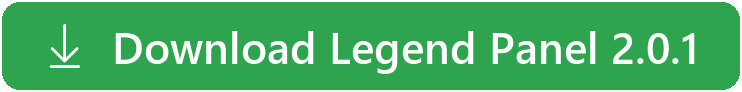
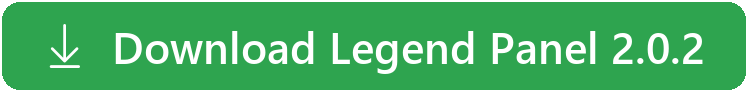
README: What's new in 2.0.2 (edit keys), Download Legend Panel 2.0.2, VirusTotal result

Changed region(s): [[0.155, 0.3261, 0.9609, 0.8043], [0.062, 0.2609, 0.124, 0.6739]]

diff --git a/README.md b/README.md
@@ -7,18 +7,27 @@ LegendPanel is a SteamVR panel that sits on your wrist or in the room. It shows 
 
 ## ⬇ Download
 
-<a href="https://github.com/Encapsulation/LegendPanel/releases/latest/download/LegendPanel.exe"><img src="docs/download-button.png" alt="Download Legend Panel 2.0.1" width="371"></a>
+<a href="https://github.com/Encapsulation/LegendPanel/releases/latest/download/LegendPanel.exe"><img src="docs/download-button.png" alt="Download Legend Panel 2.0.2" width="374"></a>
 
 One file: no installer, nothing to unpack. To update, replace the exe; your settings are kept. [All releases](https://github.com/Encapsulation/LegendPanel/releases)
 
-**VirusTotal (2.0.1):** [0 of 71 security vendors flagged it](https://www.virustotal.com/gui/file/dd71d622ff0cb8060fe69d9f820d7cb44113102748aa57d165ae441687c5f719)  
[1 lines of base64/hex data omitted]
+**VirusTotal (2.0.2):** [0 of 71 security vendors flagged it](https://www.virustotal.com/gui/file/60555c1aa0bd95351f07f62eff443ee7ea7114e480e84dd8d33fce2de2471768)  
[1 lines of base64/hex data omitted]
 
 Windows may show "Windows protected your PC" the first time, because the app isn't code-signed yet. Click **More info**, then **Run anyway**.
 
 ![The panel: frame times, GPU and CPU use, per-app lists, memory and eye tracking](docs/legendpanel-lists.png)
 
 ![LegendPanel 2.0 features](docs/legendpanel-features.png)
+
+## What's new in 2.0.2
+
+![Copy and Paste in the keyboard's top bar](docs/legendpanel-editkeys.png)
+
+### Edit keys
+- Copy and Paste keys in the VR keyboard's top bar, next to the gear, on every keyboard size. On by default.
+- Cut, Select all and Undo can sit next to them. Off by default.
+- One **Edit** button under **Keyboard > Voice** switches between Copy and Paste, all five, or none.
 
 ## What's new in 2.0.1
 
